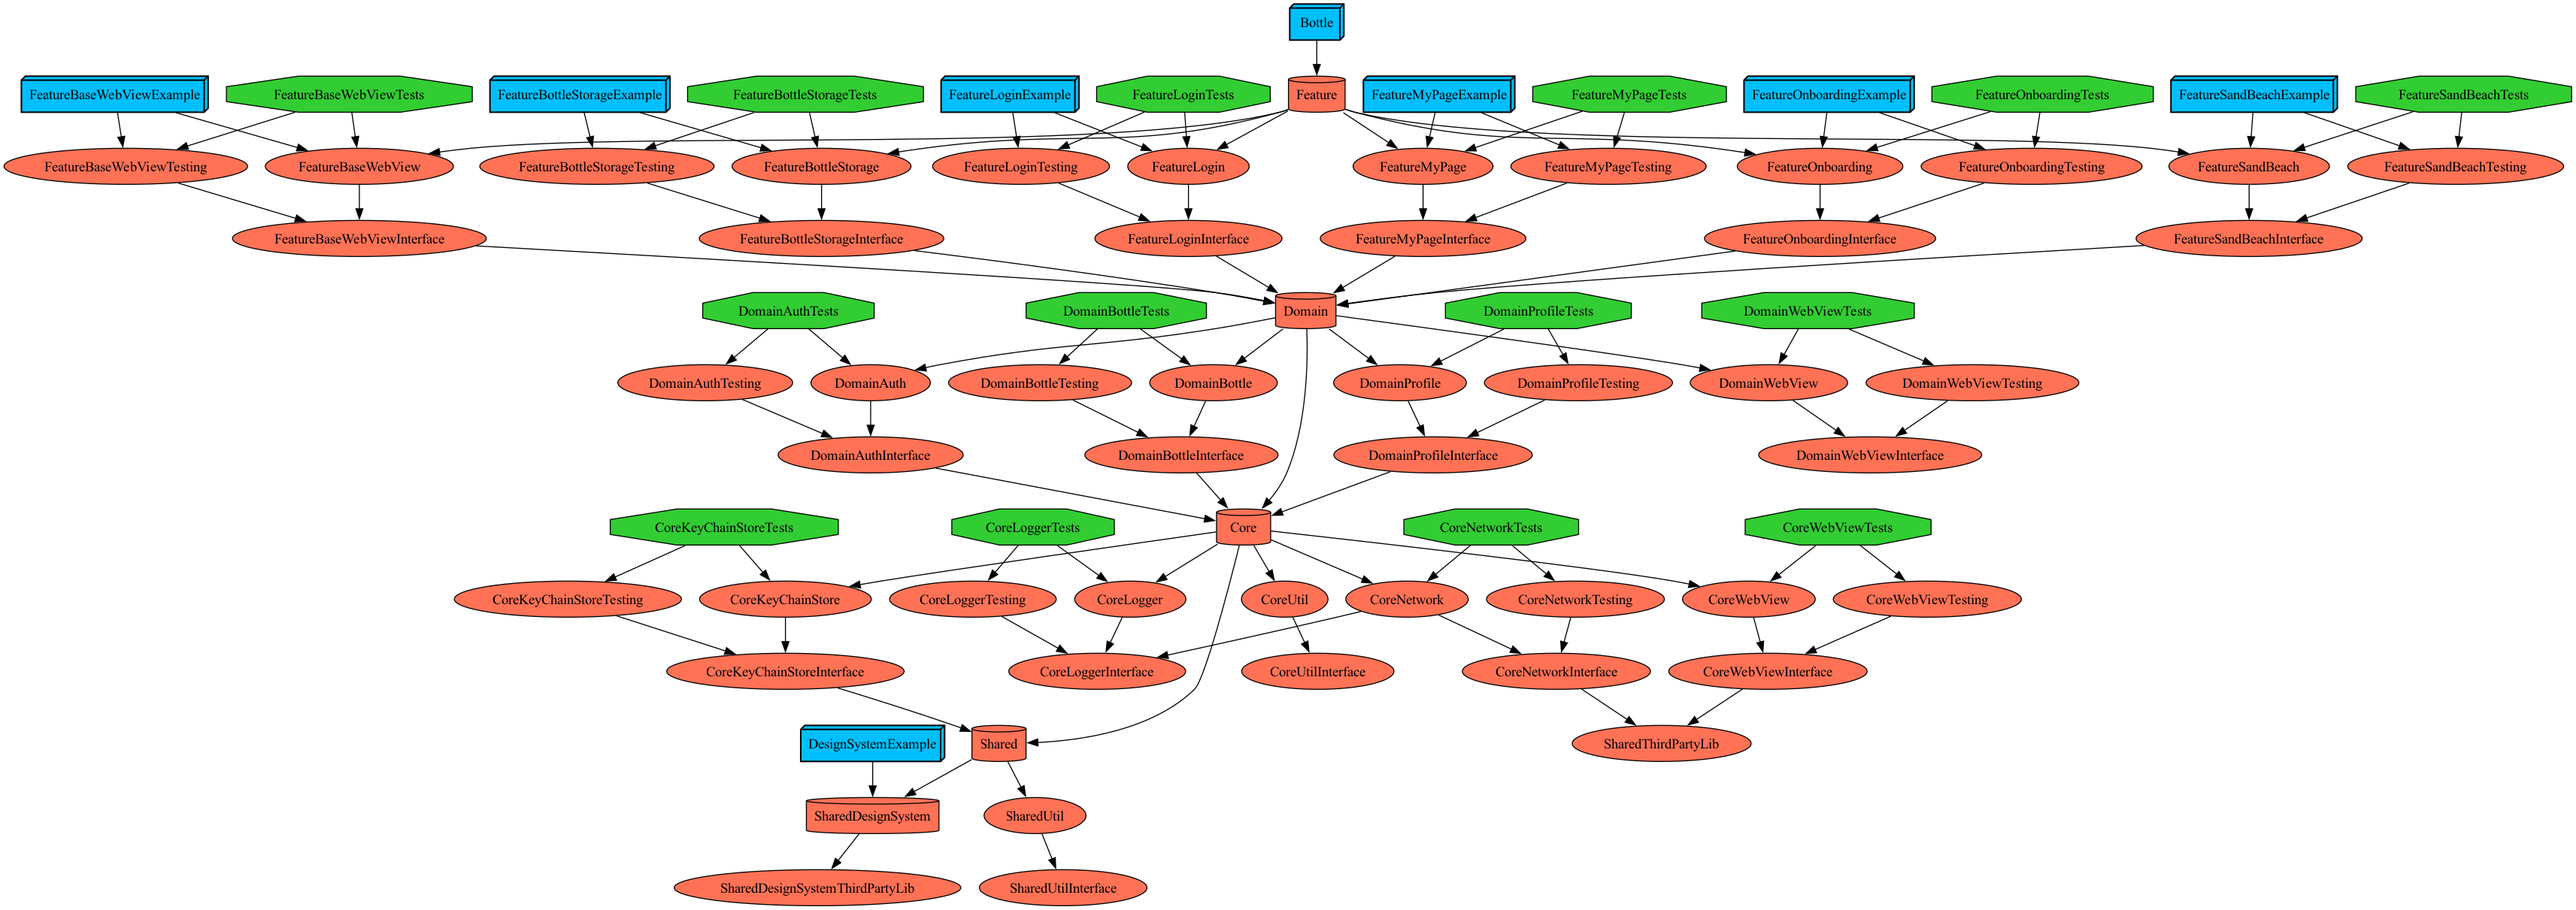
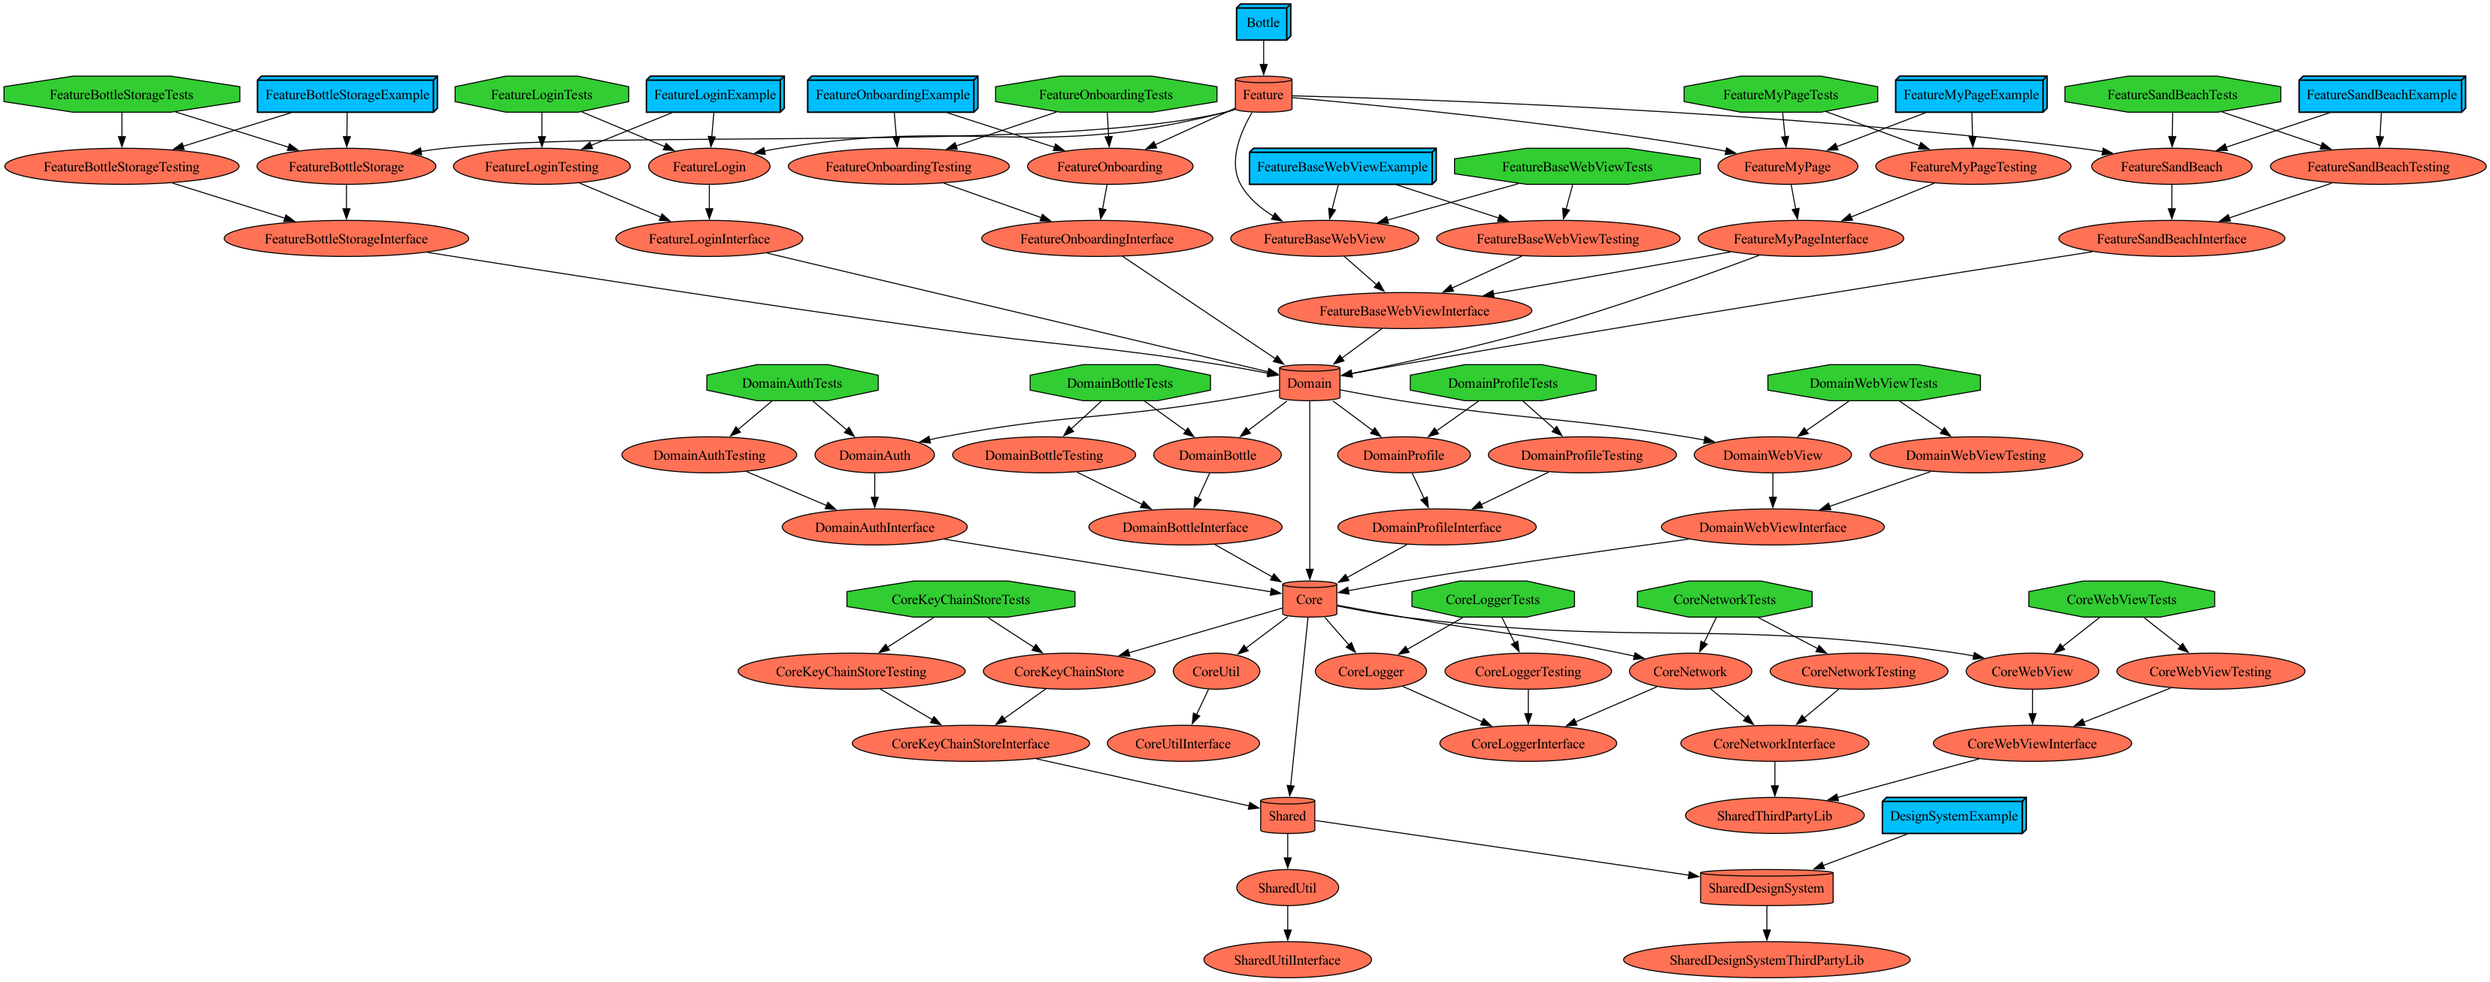
feat: 마이페이지 웹뷰 초안 연결

diff --git a/Projects/Feature/BaseWebView/Interface/Sources/BaseWebView.swift b/Projects/Feature/BaseWebView/Interface/Sources/BaseWebView.swift
@@ -13,19 +13,19 @@ import DomainWebView
 
 import ComposableArchitecture
 
-public struct BaseWebView<R: Reducer>: UIViewRepresentable {
-  private var store: Store<R.State, R.Action>
+public struct BaseWebView: UIViewRepresentable {
   private let webView: WKWebView
   private let type: BottleWebViewType
+  private let isScrollEnabled: Bool
   private let actionDidInputted: ((BottleWebViewAction) -> Void)?
-
+  
   public init(
-    store: Store<R.State, R.Action>,
     type: BottleWebViewType,
+    isScrollEnabled: Bool = false,
     actionDidInputted: ((BottleWebViewAction) -> Void)? = nil
   ) {
-    self.store = store
     self.type = type
+    self.isScrollEnabled = isScrollEnabled
     self.actionDidInputted = actionDidInputted
     let preferences = WKPreferences()
     preferences.javaScriptCanOpenWindowsAutomatically = true
@@ -41,8 +41,8 @@ public struct BaseWebView<R: Reducer>: UIViewRepresentable {
       name: type.messageHandler.name
     )
     webView.navigationDelegate = context.coordinator
-    webView.scrollView.isScrollEnabled = false
-        
+    webView.scrollView.isScrollEnabled = isScrollEnabled
+    
     let request = URLRequest(url: type.url)
     webView.load(request)
     return webView

diff --git a/Projects/Feature/MyPage/Interface/Sources/MyPage/MyPageView.swift b/Projects/Feature/MyPage/Interface/Sources/MyPage/MyPageView.swift
@@ -7,6 +7,8 @@
 
 import SwiftUI
 
+import FeatureBaseWebViewInterface
+
 import ComposableArchitecture
 
 public struct MyPageView: View {
@@ -17,6 +19,12 @@ public struct MyPageView: View {
   }
   
   public var body: some View {
-    Text("My Page view")
+    BaseWebView(
+      type: .myPage,
+      isScrollEnabled: true
+    ) { action in
+      
+    }
+    .ignoresSafeArea()
   }
 }

diff --git a/Projects/Feature/MyPage/Example/Sources/AppView.swift b/Projects/Feature/MyPage/Example/Sources/AppView.swift
@@ -1,11 +1,18 @@
 import SwiftUI
 
+import FeatureMyPageInterface
+import FeatureMyPage
+
+import ComposableArchitecture
+
 @main
 struct AppView: App {
   var body: some Scene {
     WindowGroup {
-      Text("Hello Tuist!")
+      MyPageView(store: Store(
+        initialState: MyPageFeature.State(),
+        reducer: { MyPageFeature() }
+      ))
     }
   }
 }
-

diff --git a/Projects/Domain/WebView/Project.swift b/Projects/Domain/WebView/Project.swift
@@ -7,7 +7,11 @@ let project = Project.makeModule(
     targets: [    
         .domain(
             interface: .WebView,
-            factory: .init()
+            factory: .init(
+                dependencies: [
+                    .core
+                ]
+            )
         ),
         .domain(
             implements: .WebView,

diff --git a/Projects/Feature/Onboarding/Project.swift b/Projects/Feature/Onboarding/Project.swift
@@ -9,7 +9,8 @@ let project = Project.makeModule(
             interface: .Onboarding,
             factory: .init(
                 dependencies: [
-                    .domain
+                    .domain,
+                    .feature(interface: .BaseWebView)
                 ]
             )
         ),

diff --git a/Projects/Feature/MyPage/Project.swift b/Projects/Feature/MyPage/Project.swift
@@ -9,7 +9,8 @@ let project = Project.makeModule(
             interface: .MyPage,
             factory: .init(
                 dependencies: [
-                    .domain
+                    .domain,
+                    .feature(interface: .BaseWebView)
                 ]
             )
         ),

diff --git a/Projects/Feature/Onboarding/Interface/Sources/Onboarding/OnboardingView.swift b/Projects/Feature/Onboarding/Interface/Sources/Onboarding/OnboardingView.swift
@@ -21,8 +21,7 @@ public struct OnboardingView: View {
   }
   
   public var body: some View {
-    BaseWebView<OnboardingFeature>(
-      store: store,
+    BaseWebView(
       type: .createProfile,
       actionDidInputted: { action in
         store.send(.webViewActionInputted(action))
